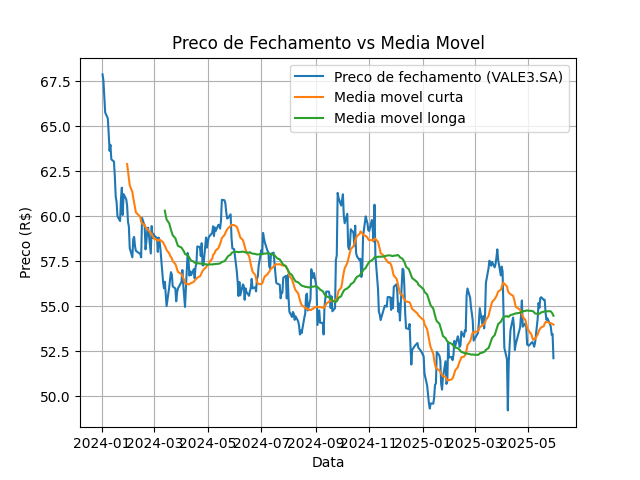
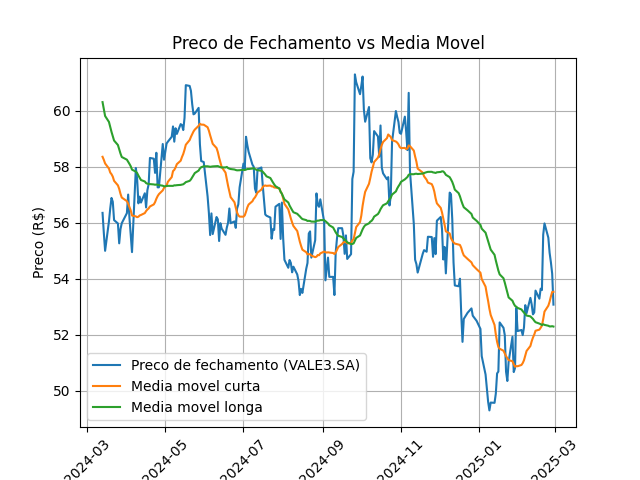
feat: Implementa motor de backtesting para simular trades

diff --git a/main.py b/main.py
@@ -7,6 +7,7 @@ class Backtester:
         self.df = df.dropna()
         self.capital_inicial = capital_inicial
         self.capital = capital_inicial
+        self.n_acoes = 0
         self.trades = []
         self.posicao = False
 
@@ -15,7 +16,7 @@ class Backtester:
         for indice, linha in self.df.iterrows():
             self._checar_sinais(indice, linha)
         print("Backtest finalizado.")
-        print(f"Resultado final: R$ {self.capital:.2f}")
+        print(f"Resultado final: R$ {(self.capital + self.n_acoes * self.df['Close'].iloc[-1].item()):.2f}")
         
     def _checar_sinais(self, data, dia_atual): #compara as médias móveis para cada dia e gera um sinal se necessário
         posicao_atual = self.df.index.get_loc(data)
@@ -34,31 +35,35 @@ class Backtester:
     def _executar_compra(self, data, preco): #executa uma compra
         self.posicao = True
         self.trades.append({'data_compra': data, 'preco_compra': preco})
-
+        self.n_acoes = self.capital // preco
+        self.capital -= self.n_acoes * preco
+        
     def _executar_venda(self, data, preco): #executa uma venda
         self.posicao = False
         self.trades.append({'data_venda': data, 'preco_venda': preco})
+        self.capital += self.n_acoes * preco
+        self.n_acoes = 0
+        
 
 codigo_ativo = input("Insira o código de um ativo (ex: VALE3.SA): ")
 inicio = input("Início do período (ex: 2020-01-01): ")
 fim = input("Final do período (ex: 2023-12-31): ")
 
-
 dados = yf.download(codigo_ativo, start=inicio, end=fim)
 dados['SMA_curta'] = dados['Close'].rolling(window=21).mean()
 dados['SMA_longa'] = dados['Close'].rolling(window=50).mean()
-ativo_1 = Backtester(dados, 10000)
 
-print(ativo_1.df)
+ativo_1 = Backtester(dados, 10000)
 ativo_1.rodar_backtest()
 print(f"trades do ativo_1: {ativo_1.trades}")
 
-plt.plot(dados['Close'], label=f"Preco de fechamento ({codigo_ativo})")
-plt.plot(dados['SMA_curta'], label='Media movel curta')
-plt.plot(dados['SMA_longa'], label='Media movel longa')
+plt.plot(ativo_1.df['Close'], label=f"Preco de fechamento ({codigo_ativo})")
+plt.plot(ativo_1.df['SMA_curta'], label='Media movel curta')
+plt.plot(ativo_1.df['SMA_longa'], label='Media movel longa')
 
 plt.title('Preco de Fechamento vs Media Movel')
 plt.xlabel('Data')
+plt.xticks(rotation=45)
 plt.ylabel('Preco (R$)')
 plt.legend()
 plt.grid(True)
